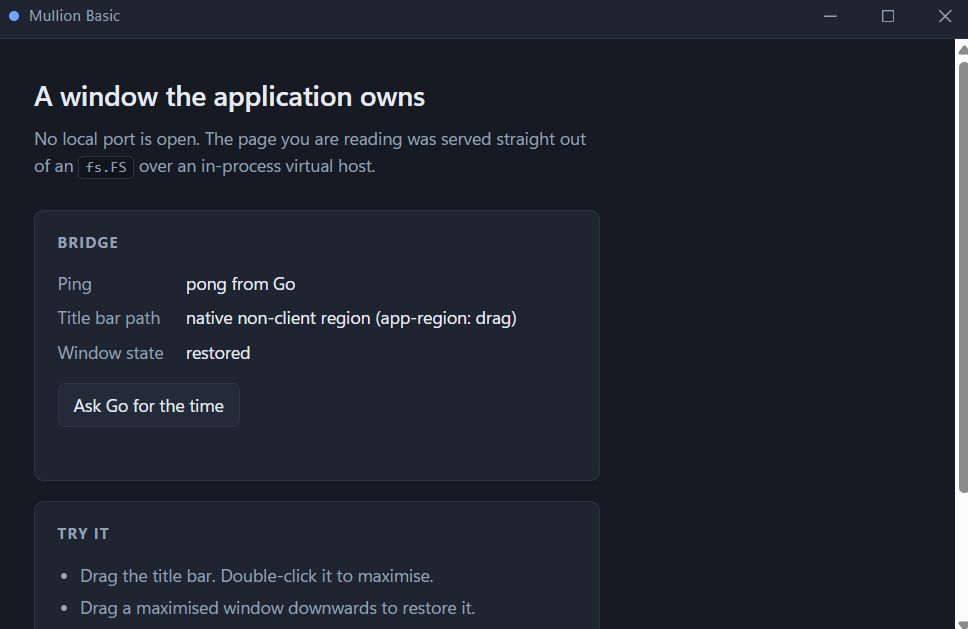
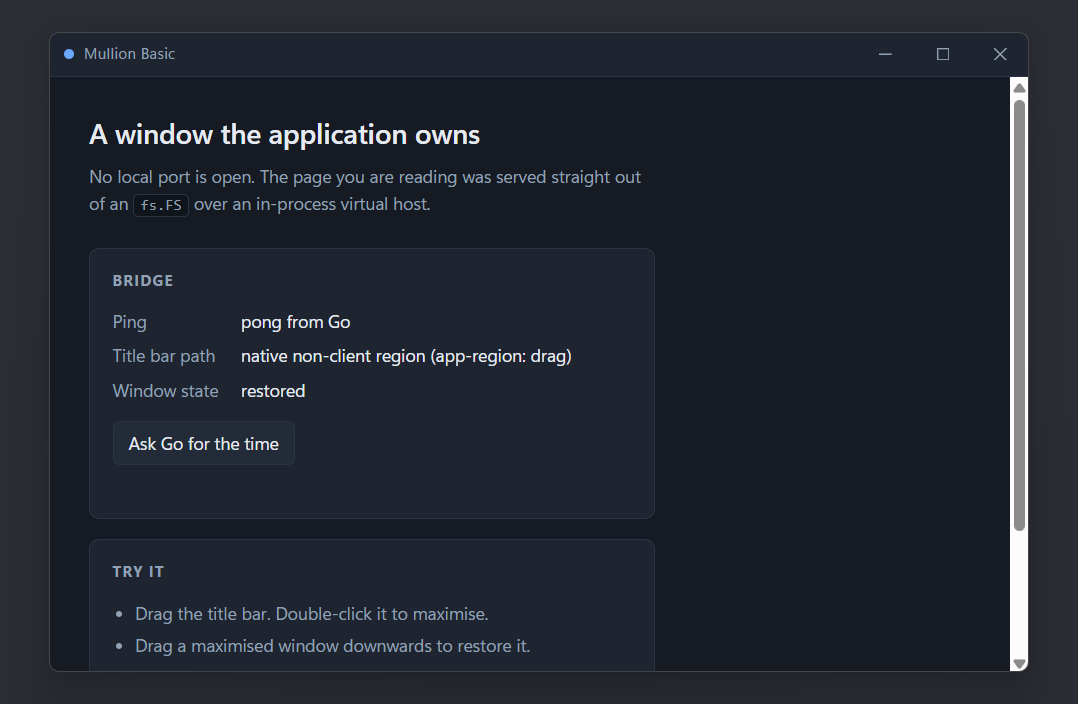
Teach screenshot.ps1 a proportional margin and a self-closing backdrop
Two additions to the capture tool, both defaulted off, and the demo
image retaken with them.

-MarginPercent crops proportionally instead of a fixed 24px: 10 gives a
crop 10% wider and taller than the window, half per side, so the aspect
ratio holds and the shadow allowance scales with the window instead of
being outgrown by it.

-Backdrop covers the target's monitor with a solid neutral grey for the
duration of the capture, so the margin around the window carries no
desktop content into a published image. The form spans the monitor's
full bounds - not the work area, which a maximised window would stop
short of wherever an appbar or the taskbar sits - and never outlives
the capture: it is closed in a finally, success or throw. Two
foreground-based attempts put the backdrop on top of the very window it
should sit behind (Show()'s queued activation landing after
SetForegroundWindow; then the foreground-steal restriction, exactly as
docs/lessons-and-dead-ends.md section 4 warns), so the z-order is set
explicitly instead: the window is raised with SetWindowPos into the
topmost band above the TopMost form - return value checked, the capture
refuses to proceed blind - and is put back to non-topmost on the way
out. screenshot.cs gains the SetWindowPos P/Invoke.

docs/images/demo.png is retaken through exactly this path
(-MarginPercent 10 -Backdrop): the old image was cropped to the bare
window rect, no margin, no shadow; the new one shows the DWM shadow and
[…]

diff --git a/scripts/screenshot.cs b/scripts/screenshot.cs
@@ -22,6 +22,9 @@ public static class Win32 {
     public static extern bool SetForegroundWindow(IntPtr hWnd);
 
     [DllImport("user32.dll")]
+    public static extern bool SetWindowPos(IntPtr hWnd, IntPtr hWndInsertAfter, int x, int y, int cx, int cy, uint flags);
+
+    [DllImport("user32.dll")]
     public static extern bool SetProcessDPIAware();
 
     [StructLayout(LayoutKind.Sequential)]